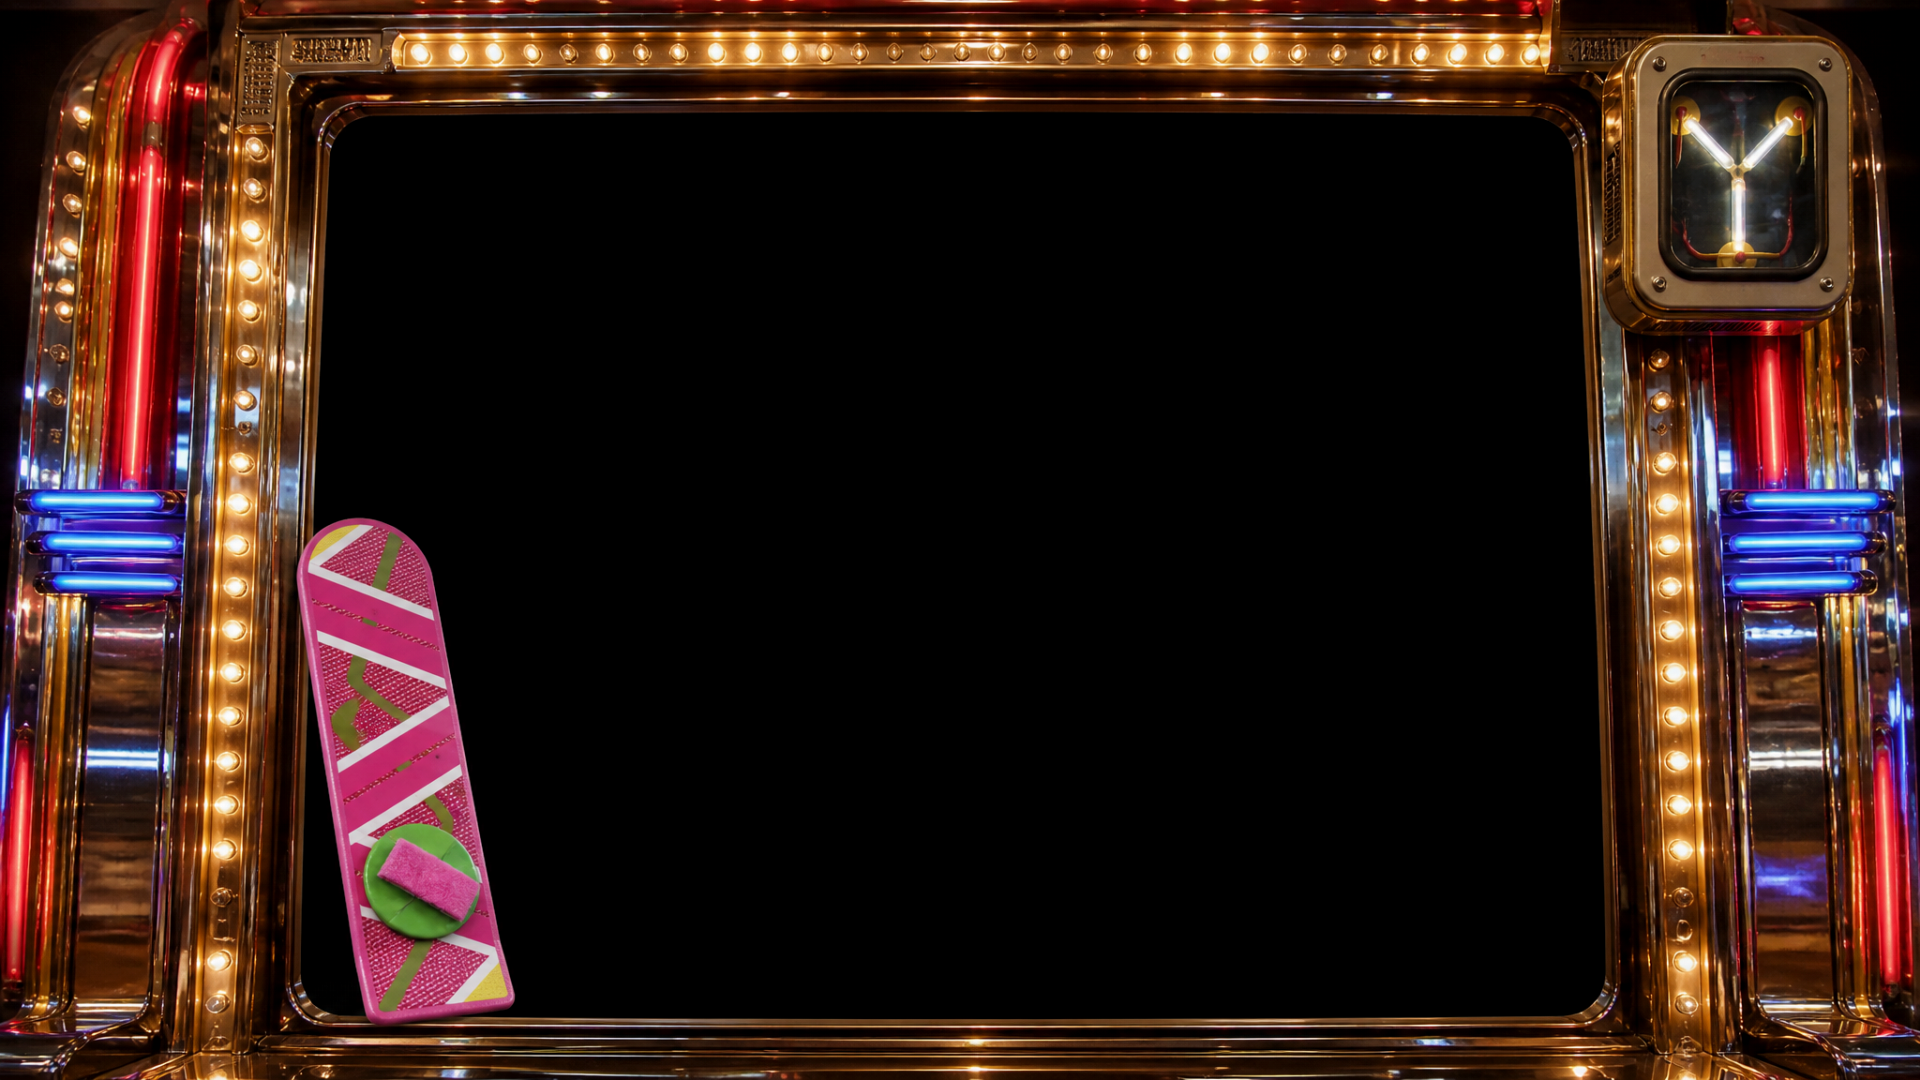
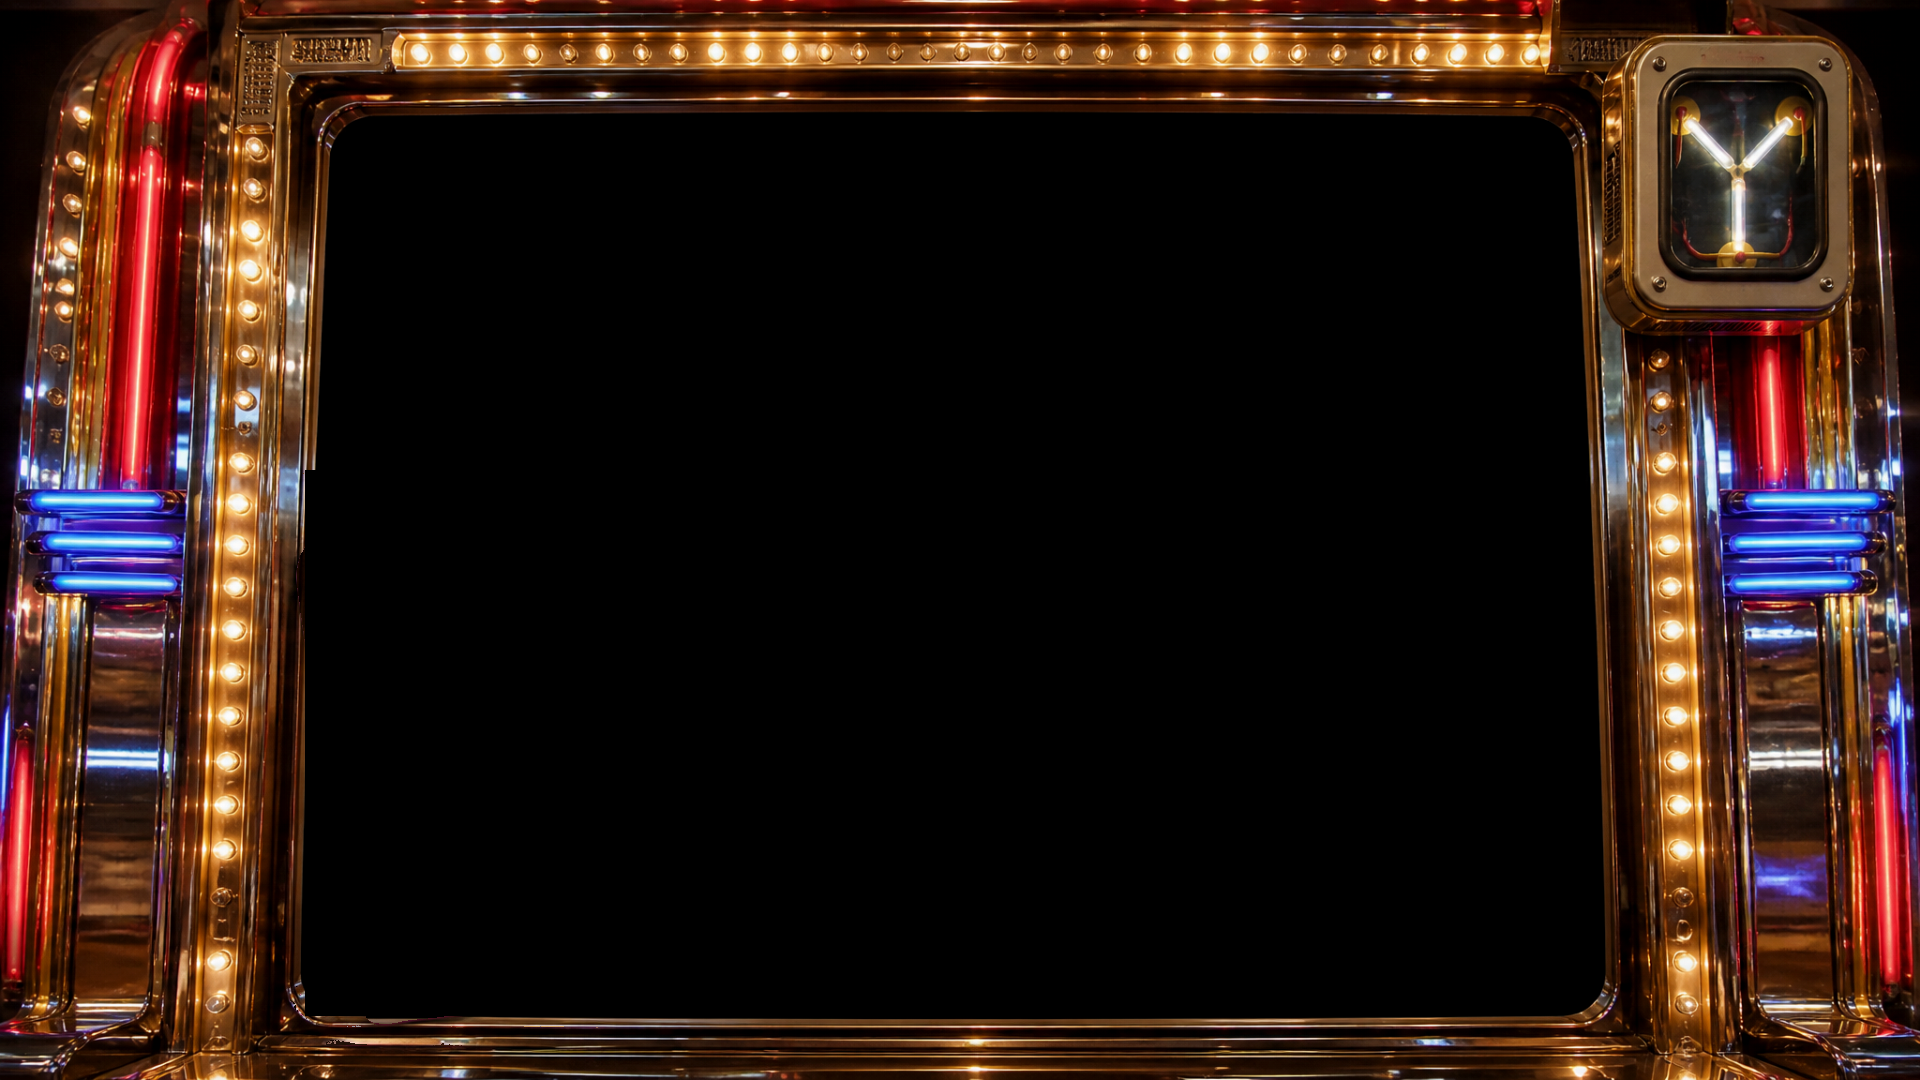
Almanach-Casino: Hoverboard aus dem Walzenfeld entfernt; Slot-Rahmen und Symbolbögen im Bild-Cache (schnellerer Start)
Claude-Session: https://claude.ai/code/session_01HNz97UqFE2gGTPea68eVSn

Changed region(s): [[0.1562, 0.4278, 0.2812, 0.9472]]

diff --git a/visualizers/scenes/slots.py b/visualizers/scenes/slots.py
@@ -54,8 +54,14 @@ GOLD = (255, 220, 80)
 
 
 def _sheet_tiles(path, keyed: bool) -> np.ndarray | None:
-    """Bildbogen (3x3) laden und als Zeile von 9 Kacheln (TH x 9*TW x 4) zurückgeben; None bei Fehler.
-    keyed: Schwarz im Bogen wird durchsichtig (Alpha aus der Helligkeit), sonst ist die Kachel ein volles Etikett."""
+    """Bildbogen (3x3) als Zeile von 9 Kacheln (TH x 9*TW x 4), aus dem Bild-Cache (npz, Schlüssel Bogen + keyed);
+    None bei Fehler. keyed: Schwarz im Bogen wird durchsichtig (Alpha aus der Helligkeit), sonst volles Etikett."""
+    out = images.derived("slots_tiles", path, f"{TW}x{TH}|{int(keyed)}", lambda: {"row": _sheet_tiles_decode(path, keyed)})
+    row = out.get("row")
+    return None if row is None or row.ndim != 3 else row
+
+
+def _sheet_tiles_decode(path, keyed: bool) -> np.ndarray:
     try:
         surf = pygame.image.load(str(path))
         if surf.get_size() != (TW * art.SHEET_COLS, TH * art.SHEET_ROWS):
@@ -63,7 +69,7 @@ def _sheet_tiles(path, keyed: bool) -> np.ndarray | None:
         rgb = pygame.surfarray.array3d(surf).transpose(1, 0, 2)        # (H, W, 3)
     except Exception as exc:
         log.warning("Bildbogen %s nicht ladbar: %s", path, exc)
-        return None
+        return np.zeros(0, dtype=np.uint8)
     row = np.zeros((TH, N_SYM * TW, 4), dtype=np.uint8)
     for ry in range(art.SHEET_ROWS):
         for rx in range(art.SHEET_COLS):
@@ -84,7 +90,14 @@ def _load_rgba(path) -> np.ndarray | None:
 
 
 def load_frame(path) -> np.ndarray | None:
-    """Themenrahmen: auf FRAME_SIZE skaliert, Alpha per Luma-Key (reines Schwarz = Walzen sichtbar, weicher Rand)."""
+    """Themenrahmen (RGBA, aus dem Bild-Cache): auf FRAME_SIZE skaliert, Alpha per Luma-Key (reines Schwarz = Walzen
+    sichtbar, weicher Rand). PNG-Dekodierung und Luma-Key von 1920x1080 kosten auf dem Pi sonst je Start ~2 s."""
+    out = images.derived("slots_frame", path, f"{FRAME_SIZE[0]}x{FRAME_SIZE[1]}", lambda: {"rgba": _load_frame_decode(path)})
+    rgba = out.get("rgba")
+    return None if rgba is None or rgba.ndim != 3 else rgba
+
+
+def _load_frame_decode(path) -> np.ndarray:
     try:
         surf = pygame.image.load(str(path))
         if surf.get_size() != FRAME_SIZE:
@@ -92,7 +105,7 @@ def load_frame(path) -> np.ndarray | None:
         rgb = pygame.surfarray.array3d(surf).transpose(1, 0, 2)[::-1]
     except Exception as exc:
         log.warning("Rahmen %s nicht ladbar: %s", path, exc)
-        return None
+        return np.zeros(0, dtype=np.uint8)
     lum = rgb.max(axis=2).astype(np.float32)
     alpha = np.clip((lum - 10.0) / 26.0, 0.0, 1.0)
     # weicher Rand: Alpha leicht glätten (3x3), damit die Kante nicht pixelig über den Walzen liegt

diff --git a/scripts/frame_clean.py b/scripts/frame_clean.py
@@ -1,0 +1,49 @@
+#!/usr/bin/env python3
+"""Rahmen der Slotmaschinen nachbearbeiten: Objekte, die ins Walzenfeld ragen, entfernen (future_frame: das Hoverboard).
+Aufruf: scripts/frame_clean.py assets/slots/future_frame.png  (nach scripts/slots_assets.sh)."""
+from __future__ import annotations
+
+import sys
+
+import numpy as np
+import pygame
+
+# je Rahmen: "inside" = Rechtecke (x0, y0, x1, y1 in 1920x1080) rein im Walzenfeld -> alles schwarz; "edge" = Streifen auf
+# dem Rahmenrand daneben, in denen nur die Farben des Objekts (pink/grün) ersetzt werden, Quelle = (dx, dy) versetzt
+CLEAN = {
+    "future_frame.png": {"inside": [(305, 470, 600, 1016)],
+                         "edge": [(286, 470, 305, 1016, 0, -420), (286, 1016, 600, 1068, 330, 0)]},
+}
+
+
+def object_mask(a: np.ndarray) -> np.ndarray:
+    r, g, b = (a[..., i].astype(int) for i in range(3))
+    pink = (r > 80) & (r > g + 25) & (b > g - 10)                     # auch der dunkle Rand/Schatten des Boards
+    green = (g > r + 15) & (g > b + 15) & (g > 90)
+    return pink | green
+
+
+def main() -> int:
+    for path in sys.argv[1:]:
+        name = path.replace("\\", "/").rsplit("/", 1)[-1]
+        rule = CLEAN.get(name)
+        if not rule:
+            continue
+        surf = pygame.image.load(path)
+        a = pygame.surfarray.array3d(surf).transpose(1, 0, 2).copy()
+        for x0, y0, x1, y1 in rule.get("inside", []):
+            a[y0:y1, x0:x1] = 0
+        for x0, y0, x1, y1, dx, dy in rule.get("edge", []):
+            sub = a[y0:y1, x0:x1]
+            m = object_mask(sub)
+            src = a[y0 + dy:y1 + dy, x0 + dx:x1 + dx]
+            sub[m] = src[m]
+            a[y0:y1, x0:x1] = sub
+        out = pygame.image.frombuffer(np.ascontiguousarray(a).tobytes(), (a.shape[1], a.shape[0]), "RGB")
+        pygame.image.save(out, path)
+        print(f"Rahmen bereinigt: {path}")
+    return 0
+
+
+if __name__ == "__main__":
+    sys.exit(main())

diff --git a/scripts/warm_cache.py b/scripts/warm_cache.py
@@ -30,6 +30,22 @@ def main() -> int:
             print(f"Black Ice: {len(rects)} Bildschirme erkannt")
     except Exception as exc:
         print(f"Bildschirm-Suche übersprungen: {exc}")
+    # Slotmaschinen: Themenrahmen (Luma-Key) und Symbolbögen (Kachelzeilen) je Automat
+    try:
+        from visualizers.scenes import slots, slots_themes as art
+        n_slots = 0
+        for frame in ("space_frame.png", "forest_frame.png", "cyber_frame.png", "future_frame.png"):
+            p = art.SHEET_DIR / frame
+            if p.exists() and slots.load_frame(p) is not None:
+                n_slots += 1
+        for themes in (art.THEMES, art.FOREST, art.CYBER, art.FUTURE):
+            for th in themes:
+                p = art.SHEET_DIR / th["sheet"]
+                if p.exists() and slots._sheet_tiles(p, bool(th.get("keyed", False))) is not None:
+                    n_slots += 1
+        print(f"Slotmaschinen: {n_slots} Rahmen/Bögen bereit")
+    except Exception as exc:
+        print(f"Slotmaschinen-Cache übersprungen: {exc}")
     # alte Cache-Dateien (Bilder, die es so nicht mehr gibt) aufräumen
     keep = set()
     for p in sorted(ROOT.glob("assets/**/*.png")):

diff --git a/CLAUDE.md b/CLAUDE.md
@@ -159,7 +159,9 @@ uPattern`, Höhen funkeln, Drop `uFlash` + `drop_boost`, Stille dimmt. Stil `uSt
 (Gewinn-Effekte: Goldregen; Glühwürmchen/Fuchs/Lichthirsch; Chips/Samurai/Neon-Explosion; Dollar/Feuerspuren/Professor/
 Zeitmaschine/Sepia), Figuren `uFigTex`/`uFig`. Themen-Controller sind Klassenattribute (`THEMES, LED, STAKES, CURRENCY,
 FRAME, FIGURES, FIG_CELLS, STYLE, COUNTER, SEED_BASE`). Bögen 768x510 (3x3 à 256x170) unter `assets/slots/`, neue Bögen und
-Rahmen vom Bot nach `assets/slots/raw/` und `scripts/slots_assets.sh`. Automatenzähler `logs/<modus>_theme.txt`.
+Rahmen vom Bot nach `assets/slots/raw/` und `scripts/slots_assets.sh` (ruft `scripts/frame_clean.py`: nimmt das Hoverboard aus
+dem Walzenfeld von `future_frame.png`, Regeln `CLEAN`). Rahmen (Luma-Key) und Symbolbögen (Kachelzeilen) liegen als npz im
+Bild-Cache (`images.derived`, `load_frame`/`_sheet_tiles`, `warm_cache.py` wärmt sie). Automatenzähler `logs/<modus>_theme.txt`.
 
 | Modus | Thema | Walzen | Rahmen | Automaten (`slots_themes.py`) |
 |---|---|---|---|---|
